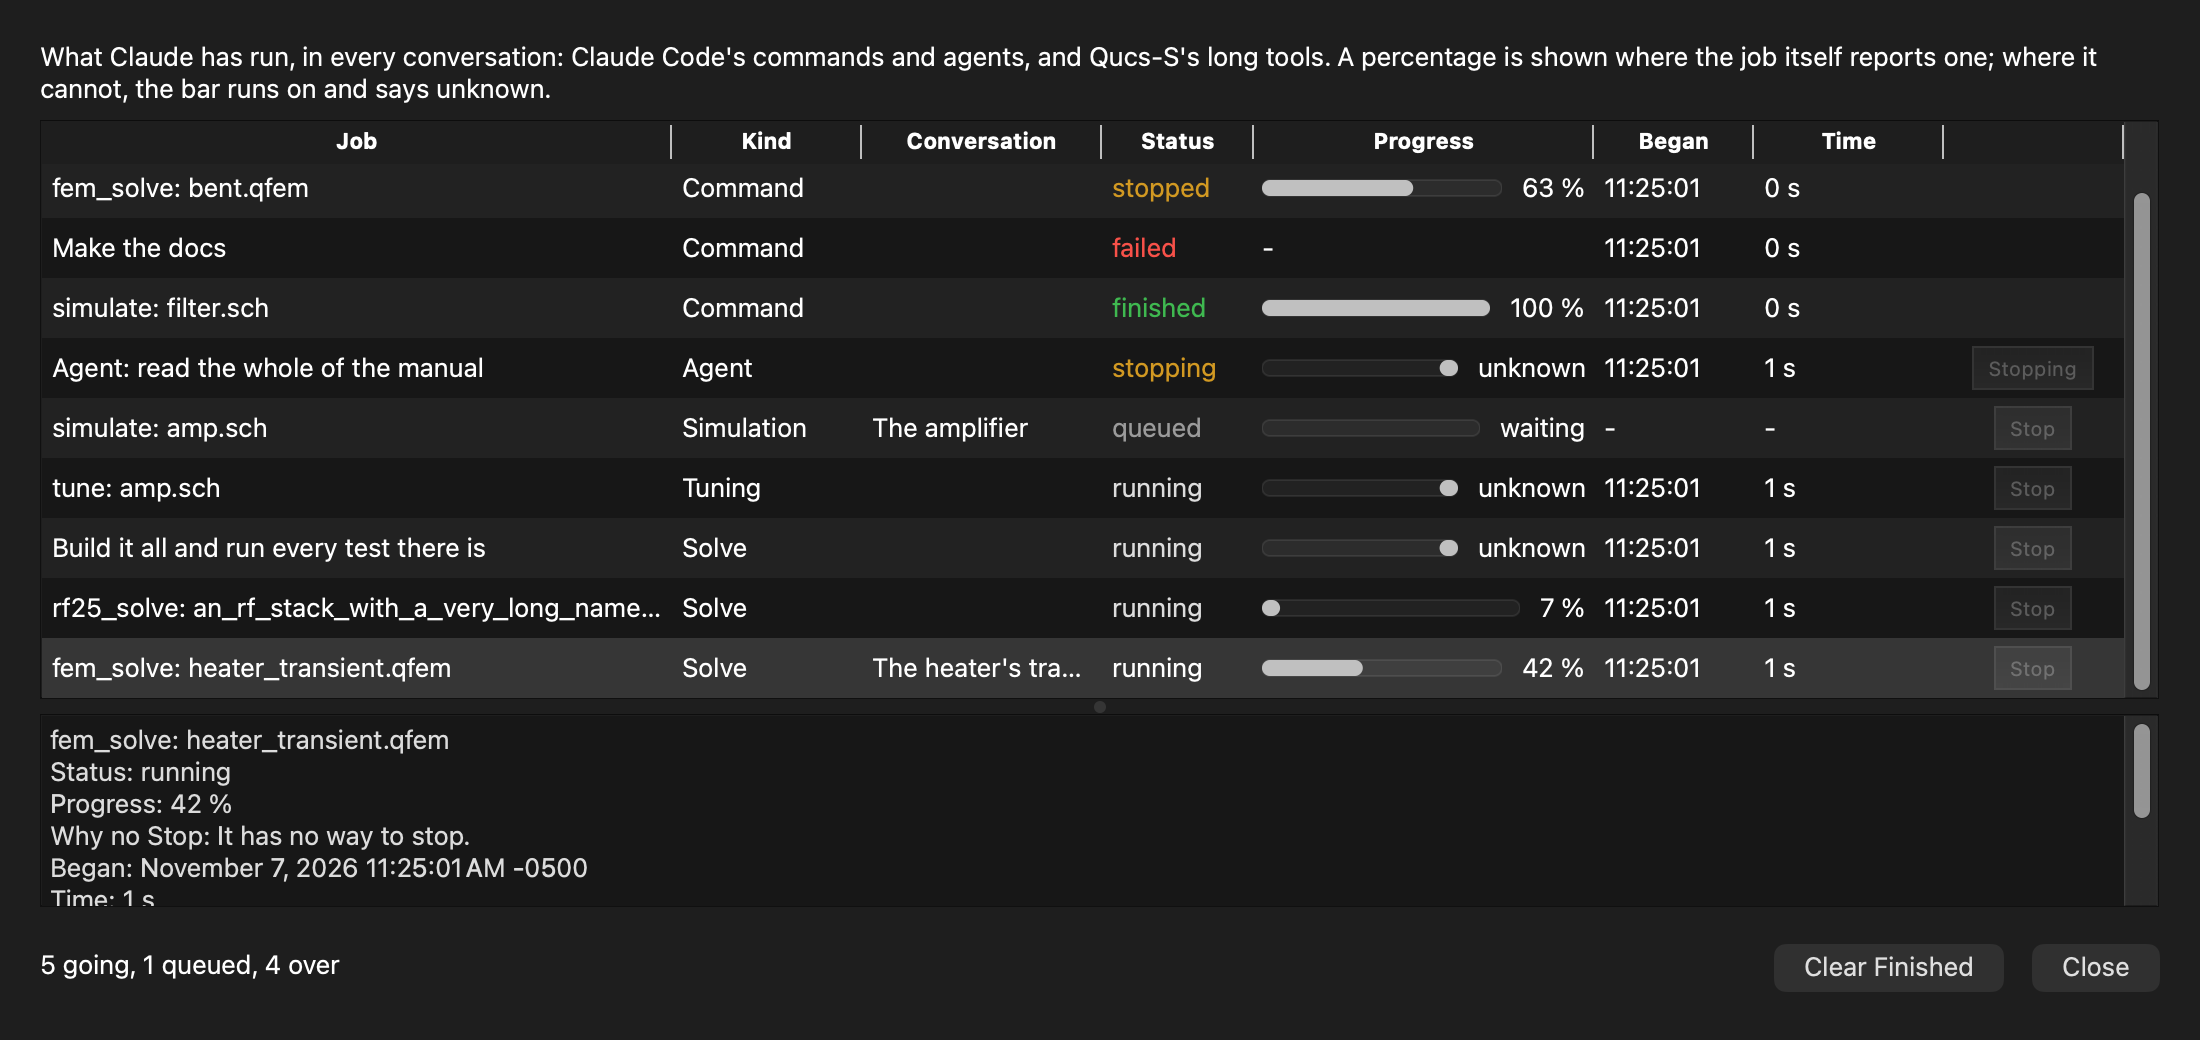
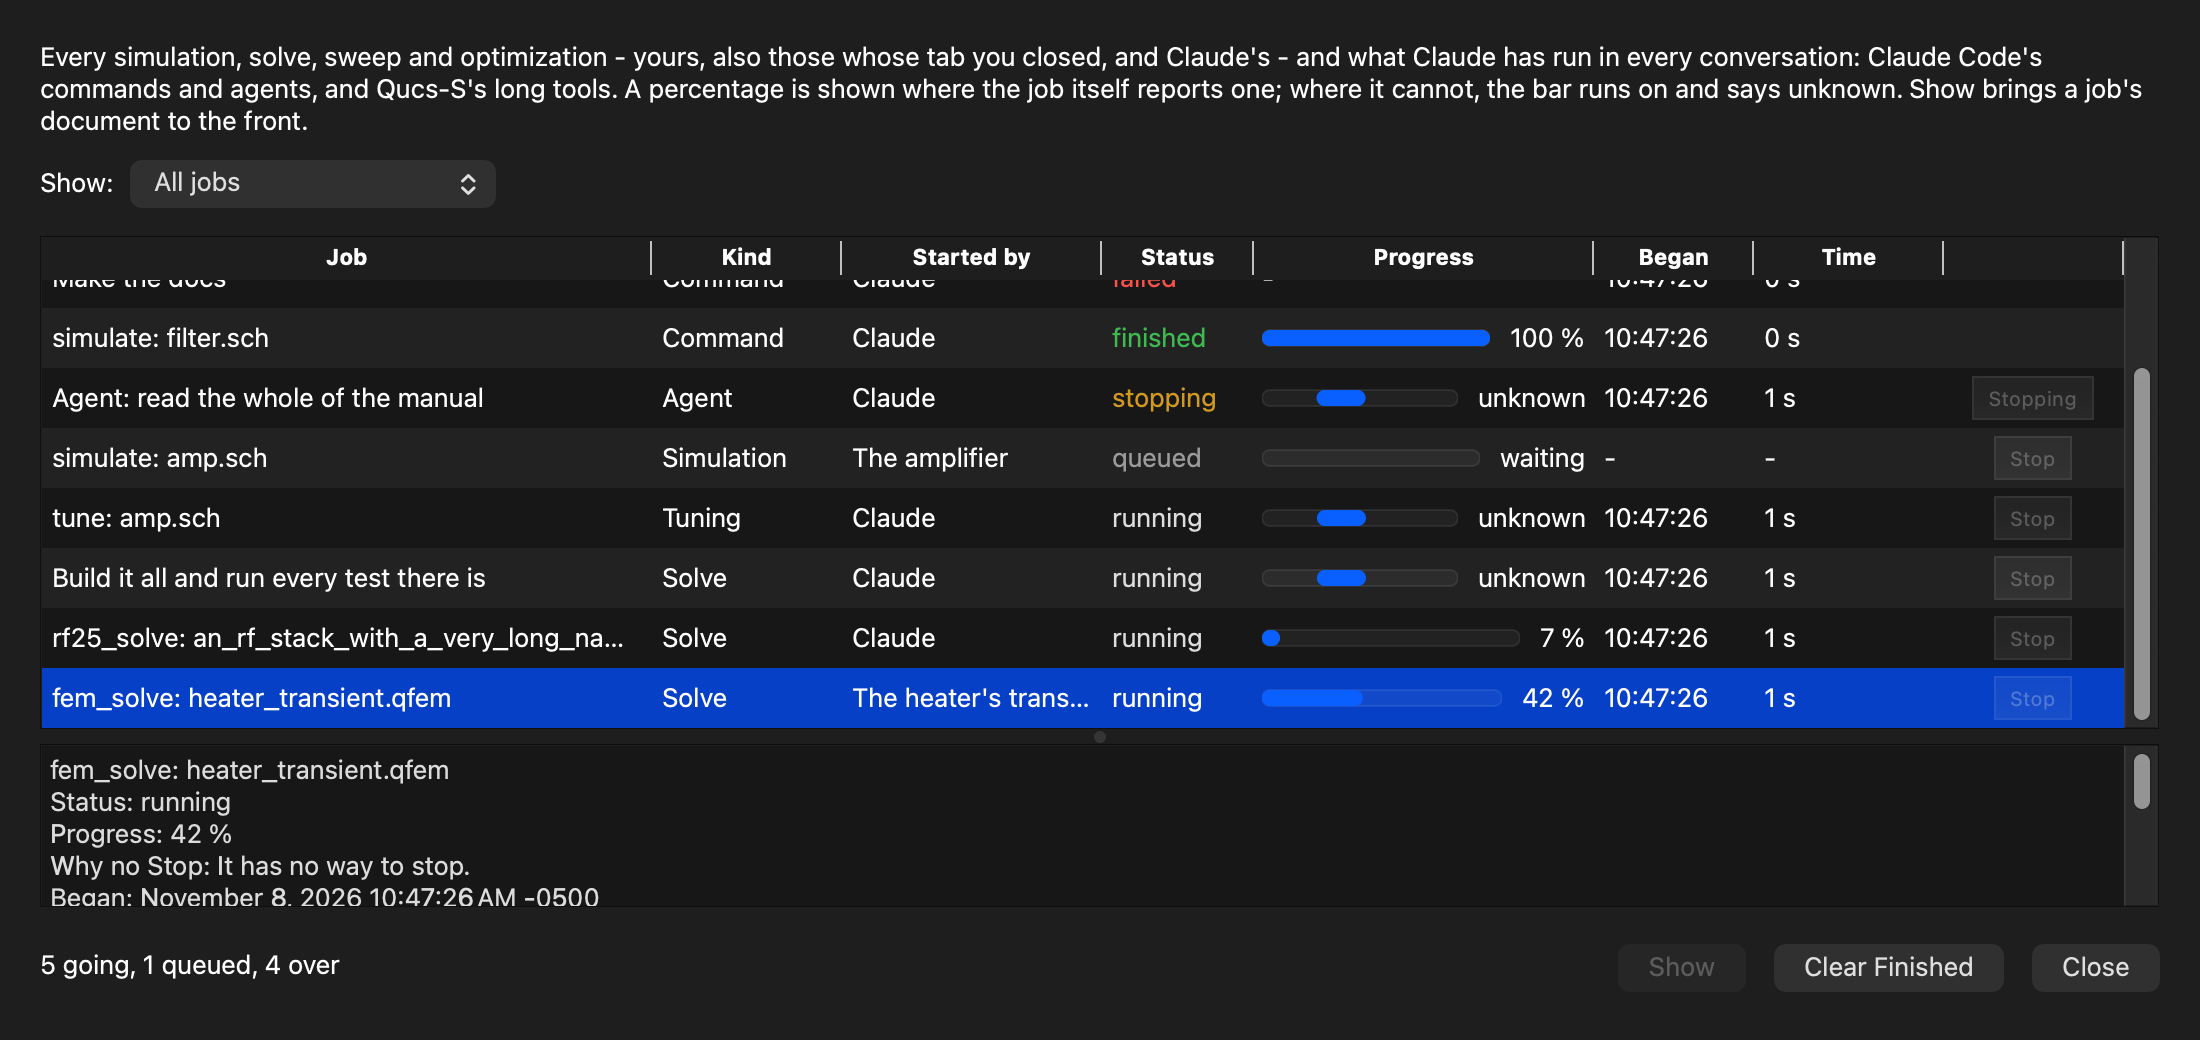
The Background Jobs window's columns resizable (the user's picture of 8 November: the Job column stretched, and a stretched column's edge does not move). Every column is Interactive: its edge dragged, a double click fitting what it holds. The Job column still takes the room the others leave, giving 
everyColumnCanBeResized (test_claude_jobs) drags each column's edge with the mouse, the Job column's too, resizes the window, and reopens it; it fails with the Job column stretched as before. test_claude_jobs, test_running_jobs, test_mcp_server and test_claude_fuzz's short pass in Release and under ASan and UBSan; the four lints; the new test and the pictures (refreshed in the write-up) on this Mac's Cocoa display. Not checked: a drag by hand in the built app, which is not rebuilt.

diff --git a/qucs-s-26.1.1/qucs/tests/test_claude_jobs.cpp b/qucs-s-26.1.1/qucs/tests/test_claude_jobs.cpp
@@ -49,6 +49,7 @@
 #include "claudejobswindow.h"
 #include "extsimkernels/ngspice.h"
 #include "isolated_settings.h"
+#include "settings.h"
 
 using qucs_s::claude::Session;
 using namespace qucs_s::claude::jobs;
@@ -146,6 +147,10 @@ private slots:
 
     void init()
     {
+        // (The columns' widths the last test left: each starts as a user's
+        // first time.)
+        QucsSettingsFile().remove("ClaudeCode/backgroundJobsColumns");
+        QucsSettingsFile().remove("ClaudeCode/backgroundJobsNameFills");
         Registry::instance().reset();
         QFile::remove(dir.filePath("jobs-in"));
     }
@@ -602,6 +607,94 @@ private slots:
         QCOMPARE(ClaudeJobsWindow::existing(), w);
         QVERIFY(w->isVisible());
         delete w;
+    }
+
+    // Every column's edge is dragged with the mouse; the Job column takes the
+    // room the others leave until it is dragged itself; the widths come back.
+    // (The Job column stretched, and its edge did not move: the user's picture
+    // of 8 November.)
+    void everyColumnCanBeResized()
+    {
+        aJob("A job", 40);
+        ClaudeJobsWindow* w = ClaudeJobsWindow::showWindow(nullptr);
+        QVERIFY(QTest::qWaitForWindowExposed(w));
+        QTableWidget* table = w->table();
+        QHeaderView* header = table->horizontalHeader();
+        for (int c = 0; c < ClaudeJobsWindow::Columns; ++c)
+            QVERIFY2(header->sectionResizeMode(c) == QHeaderView::Interactive, qPrintable(QString::number(c)));
+        const auto total = [&w] {
+            int sum = 0;
+            for (int c = 0; c < ClaudeJobsWindow::Columns; ++c) sum += w->table()->columnWidth(c);
+            return sum;
+        };
+        QVERIFY(w->nameFillsTheRoom());
+        QTRY_COMPARE(total(), table->viewport()->width());
+        // The window wider: the Job column with it.
+        w->resize(w->width() + 200, w->height());
+        QTRY_COMPARE(total(), table->viewport()->width());
+
+        // A drag on an edge, as the user drags it: from the right edge of a
+        // column, its width follows the mouse.
+        const auto drag = [header](int column, int by) {
+            const int edge = header->sectionViewportPosition(column) + header->sectionSize(column) - 1;
+            const int y = header->height() / 2;
+            QTest::mousePress(header->viewport(), Qt::LeftButton, Qt::NoModifier, QPoint(edge, y));
+            for (int step = 1; step <= 4; ++step) QTest::mouseMove(header->viewport(), QPoint(edge + by * step / 4, y));
+            QTest::mouseRelease(header->viewport(), Qt::LeftButton, Qt::NoModifier, QPoint(edge + by, y));
+        };
+        for (const int column : {int(ClaudeJobsWindow::Kind), int(ClaudeJobsWindow::StartedBy), int(ClaudeJobsWindow::Status),
+                                 int(ClaudeJobsWindow::Progress), int(ClaudeJobsWindow::Began), int(ClaudeJobsWindow::Time),
+                                 int(ClaudeJobsWindow::Stop)}) {
+            const int before = table->columnWidth(column);
+            const int name = table->columnWidth(ClaudeJobsWindow::Name);
+            drag(column, 40);
+            QVERIFY2(std::abs(table->columnWidth(column) - (before + 40)) <= 2,
+                     qPrintable(QStringLiteral("column %1: %2 to %3").arg(column).arg(before).arg(table->columnWidth(column))));
+            // The Job column gave it the room, and still fills what is left.
+            QVERIFY(table->columnWidth(ClaudeJobsWindow::Name) < name);
+            QCOMPARE(total(), table->viewport()->width());
+            QVERIFY(w->nameFillsTheRoom());
+        }
+        // Narrower again.
+        const int kind = table->columnWidth(ClaudeJobsWindow::Kind);
+        drag(ClaudeJobsWindow::Kind, -30);
+        QVERIFY(std::abs(table->columnWidth(ClaudeJobsWindow::Kind) - (kind - 30)) <= 2);
+
+        // The Job column's own edge: it keeps the width it was given, and the
+        // window no longer sizes it.
+        const int name = table->columnWidth(ClaudeJobsWindow::Name);
+        drag(ClaudeJobsWindow::Name, -60);
+        QVERIFY2(std::abs(table->columnWidth(ClaudeJobsWindow::Name) - (name - 60)) <= 2,
+                 qPrintable(QStringLiteral("%1 to %2").arg(name).arg(table->columnWidth(ClaudeJobsWindow::Name))));
+        QVERIFY(!w->nameFillsTheRoom());
+        const int sized = table->columnWidth(ClaudeJobsWindow::Name);
+        w->resize(w->width() + 150, w->height());
+        QApplication::processEvents();
+        QCOMPARE(table->columnWidth(ClaudeJobsWindow::Name), sized);
+        // Wider than the room: the table scrolls, the window stays as it is.
+        const int windowWidth = w->width();
+        drag(ClaudeJobsWindow::Name, 900);
+        QApplication::processEvents();
+        QVERIFY(total() > table->viewport()->width());
+        QCOMPARE(w->width(), windowWidth);
+        QVERIFY(w->minimumSizeHint().width() < 800);
+
+        // Opened again: as the user left them.
+        QList<int> widths;
+        for (int c = 0; c < ClaudeJobsWindow::Columns; ++c) widths << table->columnWidth(c);
+        delete w;
+        w = ClaudeJobsWindow::showWindow(nullptr);
+        QVERIFY(QTest::qWaitForWindowExposed(w));
+        for (int c = 0; c < ClaudeJobsWindow::Columns; ++c) QCOMPARE(w->table()->columnWidth(c), widths.at(c));
+        QVERIFY(!w->nameFillsTheRoom());
+        QVERIFY(w->table()->horizontalHeader()->sectionResizeMode(ClaudeJobsWindow::Name) == QHeaderView::Interactive);
+        // A kept state of no use (another set of columns): as the first time.
+        delete w;
+        QucsSettingsFile().setValue("ClaudeCode/backgroundJobsColumns", QByteArray("not a header's state"));
+        w = ClaudeJobsWindow::showWindow(nullptr);
+        QVERIFY(QTest::qWaitForWindowExposed(w));
+        QVERIFY(w->nameFillsTheRoom());
+        QTRY_COMPARE(total(), w->table()->viewport()->width());
     }
 
     void aLongNameDoesNotWidenTheWindow()

diff --git a/qucs-s-26.1.1/qucs/claudejobswindow.cpp b/qucs-s-26.1.1/qucs/claudejobswindow.cpp
@@ -12,6 +12,7 @@
 
 #include "claudejobs.h"
 #include "ink.h"
+#include "settings.h"
 
 #include <QComboBox>
 #include <QDir>
@@ -30,6 +31,8 @@
 #include <QTimer>
 #include <QToolButton>
 #include <QVBoxLayout>
+
+#include <algorithm>
 
 using namespace qucs_s::claude::jobs;
 
@@ -274,34 +277,90 @@ ClaudeJobsWindow::ClaudeJobsWindow(QWidget* parent)
     reload();
 }
 
+namespace {
+// The columns' widths as the user left them (QHeaderView's state), and whether
+// the Job column still took the room the others left.
+const QString kColumns = QStringLiteral("ClaudeCode/backgroundJobsColumns");
+const QString kNameFills = QStringLiteral("ClaudeCode/backgroundJobsNameFills");
+} // namespace
+
 void ClaudeJobsWindow::setWidths()
 {
     QHeaderView* header = a_table->horizontalHeader();
     const QFontMetrics metrics(a_table->font());
     const auto width = [&metrics](const QString& text) { return metrics.horizontalAdvance(text) + 24; };
-    // The name takes the room there is: its text is cut, never the window
-    // made wider for it (docs/feature_gaps/2026-11-02-long-lines.md). The rest
-    // fit what they say.
+    // Every column's edge can be dragged (a double click on it fits what it
+    // holds). The Job column takes the room the others leave - its text cut,
+    // never the window made wider for it (docs/feature_gaps/2026-11-02-long-
+    // lines.md) - until the user sizes it; past the room, the table scrolls.
+    // (It stretched, and a stretched column's edge does not move: the user's
+    // picture of 8 November.)
     header->setMinimumSectionSize(24);
-    header->setSectionResizeMode(Name, QHeaderView::Stretch);
     header->setStretchLastSection(false);
+    header->setSectionsMovable(false);
     const struct {
         Column column;
         int width;
-        QHeaderView::ResizeMode mode;
-    } fixed[] = {
-        {Kind, width(tr("Qucs-S tool")), QHeaderView::Interactive},
-        {Conversation, 130, QHeaderView::Interactive},
-        {Status, width(tr("stopping")), QHeaderView::Interactive},
-        {Progress, 170, QHeaderView::Interactive},
-        {Began, width(QStringLiteral("00:00:00")), QHeaderView::Interactive},
-        {Time, width(tr("59 min 59 s")), QHeaderView::Interactive},
-        {Stop, width(tr("Stopping")) + 12, QHeaderView::Fixed},
+    } widths[] = {
+        {Kind, width(tr("Qucs-S tool"))},
+        {Conversation, 130},
+        {Status, width(tr("stopping"))},
+        {Progress, 170},
+        {Began, width(QStringLiteral("00:00:00"))},
+        {Time, width(tr("59 min 59 s"))},
+        {Stop, width(tr("Stopping")) + 12},
     };
-    for (const auto& f : fixed) {
-        header->setSectionResizeMode(f.column, f.mode);
-        a_table->setColumnWidth(f.column, f.width);
+    header->setSectionResizeMode(QHeaderView::Interactive);
+    for (const auto& w : widths) a_table->setColumnWidth(w.column, w.width);
+    a_table->setColumnWidth(Name, 200);
+
+    // As the user left them last time.
+    const QucsSettingsFile settings;
+    if (header->restoreState(settings.value(kColumns).toByteArray()) && header->count() == Columns) {
+        header->setSectionResizeMode(QHeaderView::Interactive);
+        a_nameFills = settings.value(kNameFills, true).toBool();
     }
+
+    connect(header, &QHeaderView::sectionResized, this, [this](int column, int, int) {
+        if (a_fitting) return;
+        // The user's doing: the Job column, sized, stays so; another, the Job
+        // column gives it room (or takes what it gave up) while it fills.
+        if (column == Name) a_nameFills = false;
+        else fitName();
+    });
+    a_table->viewport()->installEventFilter(this);
+}
+
+ClaudeJobsWindow::~ClaudeJobsWindow()
+{
+    // (Closed with the application, or deleted while shown: no hide comes.)
+    if (a_table != nullptr) saveWidths();
+}
+
+void ClaudeJobsWindow::fitName()
+{
+    if (!a_nameFills || a_table == nullptr) return;
+    int others = 0;
+    for (int c = 0; c < Columns; ++c)
+        if (c != Name && !a_table->isColumnHidden(c)) others += a_table->columnWidth(c);
+    const int room = std::max(160, a_table->viewport()->width() - others);
+    if (a_table->columnWidth(Name) == room) return;
+    a_fitting = true;
+    a_table->setColumnWidth(Name, room);
+    a_fitting = false;
+}
+
+void ClaudeJobsWindow::saveWidths() const
+{
+    QucsSettingsFile settings;
+    settings.setValue(kColumns, a_table->horizontalHeader()->saveState());
+    settings.setValue(kNameFills, a_nameFills);
+}
+
+bool ClaudeJobsWindow::eventFilter(QObject* watched, QEvent* event)
+{
+    if (a_table != nullptr && watched == a_table->viewport() && event->type() == QEvent::Resize) fitName();
+    return QWidget::eventFilter(watched, event);
 }
 
 void ClaudeJobsWindow::reload()
@@ -552,6 +611,7 @@ void ClaudeJobsWindow::changeEvent(QEvent* event)
 void ClaudeJobsWindow::showEvent(QShowEvent* event)
 {
     QWidget::showEvent(event);
+    fitName();
     a_clock->start();
     tick();
 }
@@ -560,4 +620,5 @@ void ClaudeJobsWindow::hideEvent(QHideEvent* event)
 {
     QWidget::hideEvent(event);
     a_clock->stop();
+    saveWidths();
 }

diff --git a/qucs-s-26.1.1/qucs/claudejobswindow.h b/qucs-s-26.1.1/qucs/claudejobswindow.h
@@ -44,6 +44,7 @@ public:
     static ClaudeJobsWindow* showWindow(QWidget* from);
     /// The window when it exists, shown or not; null when not.
     static ClaudeJobsWindow* existing();
+    ~ClaudeJobsWindow() override;
 
     QTableWidget* table() const { return a_table; }
     QPushButton* clearButton() const { return a_clear; }
@@ -65,6 +66,10 @@ public:
     bool showChosenDocument();
     /// The table's row of the job \a id, or -1.
     int rowOf(const QString& id) const;
+    /// Whether the Job column takes the room the others leave, as it does
+    /// until the user drags its edge (each column's edge can be dragged; the
+    /// widths are kept for the next time the window opens).
+    bool nameFillsTheRoom() const { return a_nameFills; }
 
     enum Column { Name, Kind, Conversation, Status, Progress, Began, Time, Stop, Columns };
     /// (The Conversation column is "Started by": You, or Claude's conversation.)
@@ -74,6 +79,7 @@ protected:
     void changeEvent(QEvent* event) override;
     void showEvent(QShowEvent* event) override;
     void hideEvent(QHideEvent* event) override;
+    bool eventFilter(QObject* watched, QEvent* event) override;
 
 private:
     explicit ClaudeJobsWindow(QWidget* parent);
@@ -85,6 +91,9 @@ private:
     void showSummary();
     void showDetails();
     void setWidths();
+    /// The Job column's width, the room the others leave (while it fills it).
+    void fitName();
+    void saveWidths() const;
     void applyFilter();
     void updateShowButton();
 
@@ -95,6 +104,8 @@ private:
     QPushButton* a_show = nullptr;
     QComboBox* a_filter = nullptr;
     QTimer* a_clock = nullptr;
+    bool a_nameFills = true;   // the Job column follows the window, until the user sizes it
+    bool a_fitting = false;    // (fitName() setting it: no user's doing)
 };
 
 #endif // QUCS_CLAUDEJOBSWINDOW_H

diff --git a/docs/feature_gaps/2026-11-07-background-jobs-window.md b/docs/feature_gaps/2026-11-07-background-jobs-window.md
@@ -141,9 +141,14 @@ be one small tool on `Registry::stop` if wanted.
 - **Not a dialog:** a plain `QWidget` with `Qt::Window`. `QucsControl::openDialog()` takes any open `QDialog` for one a tool
   must wait on, and would have blocked every tool while it was open.
 - **One at a time:** asked for again, it comes forward. Its parent is the main window, not a floating dock.
-- **Long names:** the name column stretches and the view cuts its text; the tool tip and the panel below have it whole. A
-  row's text does not reach the window's least size (`aLongNameDoesNotWidenTheWindow`). Names are cut to 300 characters
-  and details to 8,000 on the way in.
+- **Long names:** the Job column takes the room the other columns leave, and the view cuts its text. The tool tip and
+  the panel below have it whole. A row's text does not reach the window's least size (`aLongNameDoesNotWidenTheWindow`).
+  Names are cut to 300 characters and details to 8,000 on the way in.
+- **Every column's edge can be dragged** (the user, 8 November, with a picture: the Job column stretched, and a stretched
+  column's edge does not move). The Job column gives a column dragged wider its room, and takes back what one gives up,
+  until its own edge is dragged; then it keeps its width, and past the window's room the table scrolls rather than the
+  window widening. A double click on an edge fits what the column holds. The widths are kept in the settings for the next
+  time the window opens; a kept state of other columns is ignored (`everyColumnCanBeResized`, by mouse drags on each edge).
 - **Themes:** the palette's colours, with the status words in the dock's own greens, reds and ambers for each paper; checked
   by eye in the pictures. It follows a change of theme live.
 - **A row's widgets:** a table view shows a cell's widget again each time it lays itself out, which brought Stop back on
